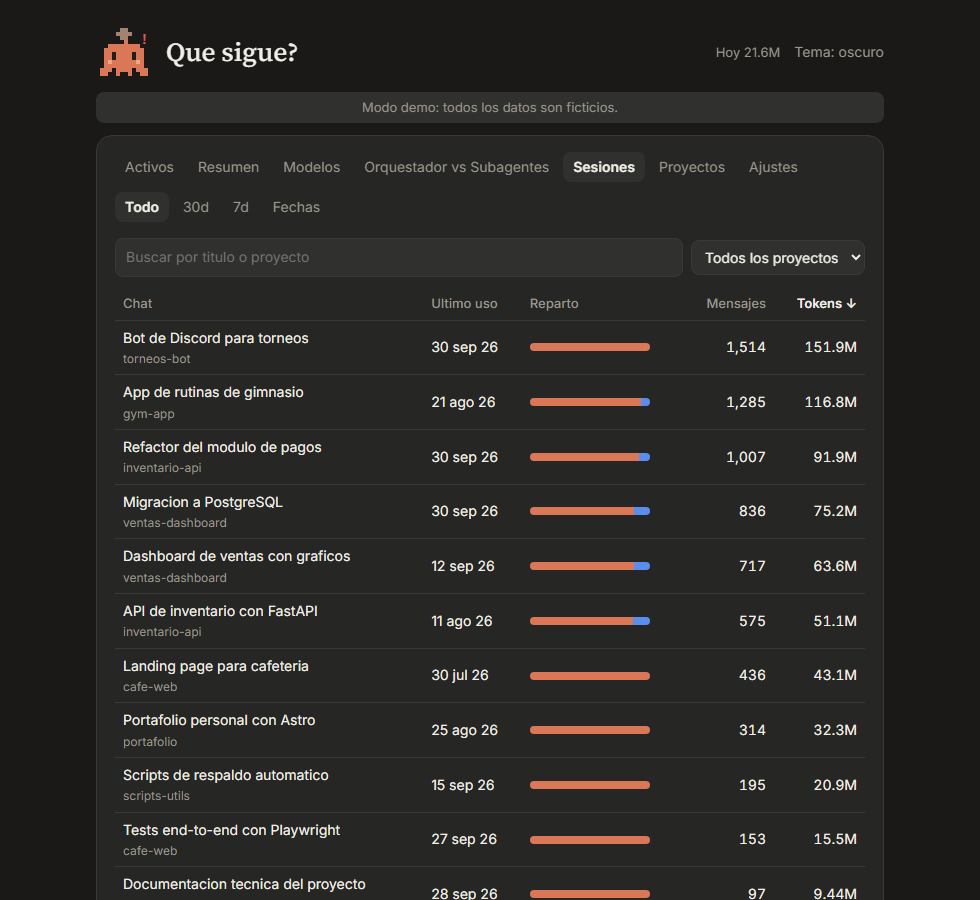
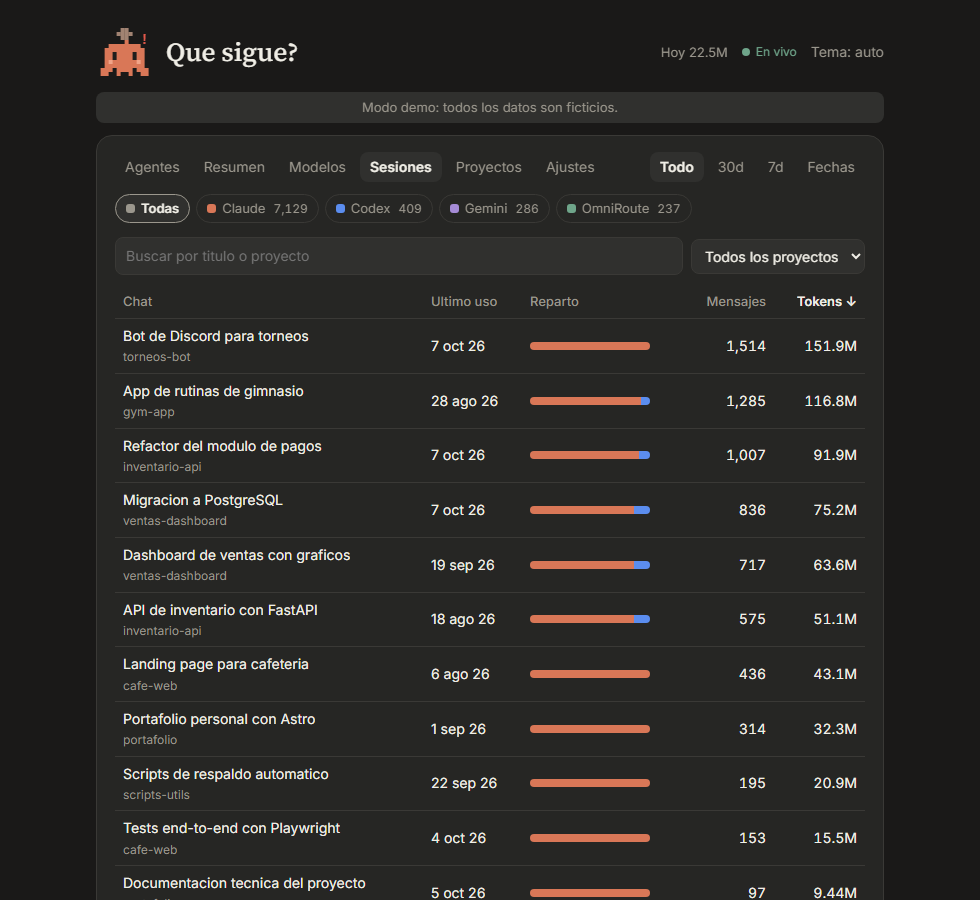
docs: actualiza las capturas del demo con la pestana Agentes

diff --git a/README.md b/README.md
@@ -111,20 +111,20 @@ Abre `http://127.0.0.1:4318`.
     <td align="center"><sub>Tokens por modelo y por día</sub></td>
   </tr>
   <tr>
-    <td><img src="docs/screenshots/roles.png" alt="Orquestador contra subagentes" /></td>
+    <td><img src="docs/screenshots/roles.png" alt="Resumen: orquestador contra subagentes (solo Claude)" /></td>
     <td><img src="docs/screenshots/sesiones.png" alt="Sesiones ordenables con filtros" /></td>
   </tr>
   <tr>
-    <td align="center"><sub>Orquestador vs Subagentes</sub></td>
+    <td align="center"><sub>Resumen con Orquestador vs Subagentes</sub></td>
     <td align="center"><sub>Sesiones con título, orden y filtros</sub></td>
   </tr>
   <tr>
     <td><img src="docs/screenshots/ajustes.png" alt="Pestaña de ajustes" /></td>
-    <td><img src="docs/screenshots/activos.png" alt="Chats activos con barra de contexto" /></td>
+    <td><img src="docs/screenshots/agentes.png" alt="Agentes: límites por fuente y agentes en vivo" /></td>
   </tr>
   <tr>
     <td align="center"><sub>Ajustes dentro del dashboard</sub></td>
-    <td align="center"><sub>Chats activos y su contexto</sub></td>
+    <td align="center"><sub>Agentes, límites por fuente y chats activos</sub></td>
   </tr>
 </table>
 

diff --git a/README.pt-BR.md b/README.pt-BR.md
@@ -111,20 +111,20 @@ Abra `http://127.0.0.1:4318`.
     <td align="center"><sub>Tokens por modelo e por dia</sub></td>
   </tr>
   <tr>
-    <td><img src="docs/screenshots/roles.png" alt="Orquestrador contra subagentes" /></td>
+    <td><img src="docs/screenshots/roles.png" alt="Resumo: orquestrador contra subagentes (só Claude)" /></td>
     <td><img src="docs/screenshots/sesiones.png" alt="Sessões ordenáveis com filtros" /></td>
   </tr>
   <tr>
-    <td align="center"><sub>Orquestrador vs Subagentes</sub></td>
+    <td align="center"><sub>Resumo com Orquestrador vs Subagentes</sub></td>
     <td align="center"><sub>Sessões com título, ordem e filtros</sub></td>
   </tr>
   <tr>
     <td><img src="docs/screenshots/ajustes.png" alt="Aba de ajustes" /></td>
-    <td><img src="docs/screenshots/activos.png" alt="Chats ativos com barra de contexto" /></td>
+    <td><img src="docs/screenshots/agentes.png" alt="Agentes: limites por fonte e agentes ao vivo" /></td>
   </tr>
   <tr>
     <td align="center"><sub>Ajustes dentro do dashboard</sub></td>
-    <td align="center"><sub>Chats ativos e seu contexto</sub></td>
+    <td align="center"><sub>Agentes, limites por fonte e chats ativos</sub></td>
   </tr>
 </table>
 

diff --git a/README.en.md b/README.en.md
@@ -111,20 +111,20 @@ Open `http://127.0.0.1:4318`.
     <td align="center"><sub>Tokens per model and per day</sub></td>
   </tr>
   <tr>
-    <td><img src="docs/screenshots/roles.png" alt="Orchestrator vs subagents" /></td>
+    <td><img src="docs/screenshots/roles.png" alt="Summary: orchestrator vs subagents (Claude only)" /></td>
     <td><img src="docs/screenshots/sesiones.png" alt="Sortable sessions with filters" /></td>
   </tr>
   <tr>
-    <td align="center"><sub>Orchestrator vs Subagents</sub></td>
+    <td align="center"><sub>Summary with Orchestrator vs Subagents</sub></td>
     <td align="center"><sub>Sessions with title, sorting, and filters</sub></td>
   </tr>
   <tr>
     <td><img src="docs/screenshots/ajustes.png" alt="Settings tab" /></td>
-    <td><img src="docs/screenshots/activos.png" alt="Active chats with context bar" /></td>
+    <td><img src="docs/screenshots/agentes.png" alt="Agents: limits per source and live agents" /></td>
   </tr>
   <tr>
     <td align="center"><sub>Settings inside the dashboard</sub></td>
-    <td align="center"><sub>Active chats and their context</sub></td>
+    <td align="center"><sub>Agents, limits per source and active chats</sub></td>
   </tr>
 </table>
 
